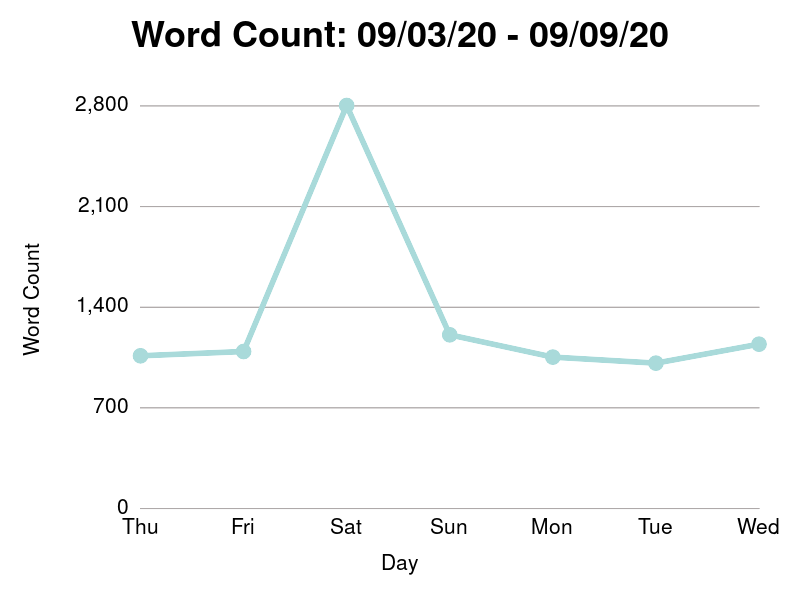
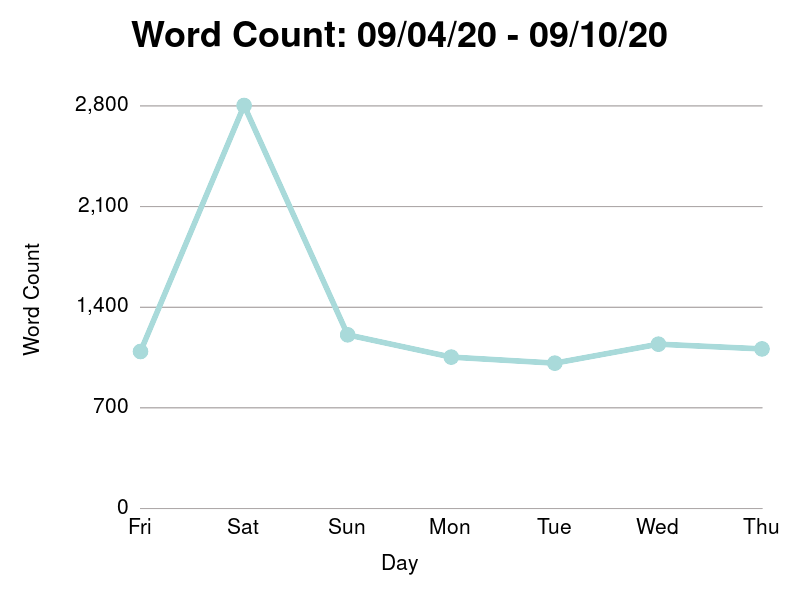
Post

diff --git a/entries/2020-09-10.md b/entries/2020-09-10.md
@@ -1,0 +1,147 @@
+---
+title: insecurity, soup, and piano
+---
+
+Dear Journal,
+
+Good morning, everyone.  Happy Thursday.  I hope you're hanging in
+there today.
+
+This week feels longer, doesn't it?  I thought I was in for an easy
+week, having this past Monday off and everything.  But I forgot about
+that weird phenomenon in that occurs in the busy seasons of life on
+short weeks like this one.  It's still a week's worth of work, but we
+just have fewer days to do it.  Turning the corner on this Thursday, I
+have the overwhelming sensation that I'm behind on something - that I
+need to catch up before the weekend so I can relax.
+
+_Sip_.  Yesterday was tough.  I had one of those days where all of my
+insecurities just jumped on my back and stayed with me throughout all
+of my dealings with people.  Little dark, nagging thoughts bouncing
+around in my brain.  Am I working hard enough?  Am I asking good
+questions?  Am I making this simpler for them, or just more confusing?
+Am I managing my time and staying on top of things?  Am I too silly in
+meetings, or am I too serious?
+
+And a chat tool like slack probably makes things worse.  You can't
+feel the warmth in a room when you crack a joke or say something
+crass.  You don't get the appreciative nods rewarding a valuable
+explanation.  And all of your words are right there on the screen in
+permanent black and white, like a big cold hunk of meat on an
+operating table waiting to be dissected.
+
+Insecurity is tough.  It would be nice if I could just fix it.  It
+would be great if all these thoughts flowed from a single false
+syllogism in my brain, and I could pluck it out.  I wish I could fix
+my insecurity by introducing little daily or weekly regiment into my
+life, like cleaning my coffee machine or doing push-ups at night.  It
+certainly feels better to write about it.  Thanks for the therapy
+session, reader.  And now I've spent so much time on the first topic
+in my notes, I'm out of coffee.
+
+_Sip_.  That's better.  Throughout the day yesterday, it seemed like
+Ziggy and I were kindred spirits, each dealing with our own negative
+thoughts.  Ollie was at _de kantoor van de dierenarts_ (or
+"Veterenarian's office") all day yesterday getting his teeth cleaned.
+Without her brother, Ziggy moped and wandered around the house like
+a... Ah, I can't really say _lost puppy_, can I?  She _was_ a lost
+puppy.
+
+For most of the morning, Ziggy remained curled up at the corner of the
+bed, casting her big droopy eyes at the back of my head while I
+worked.  Later in the morning, I felt a familiar sharp jab from a tiny
+finger.
+
+"DADA, guess what I have," said Rodney.  He had a small bundle of
+papers jutting out from behind his back.  I slipped my headphones off
+my head and turned to focus on him.
+
+"What.  Show me," I replied, smiling.
+
+Rodney unfurled his papers.  An orderly phalanx of uppercase _B_'s and
+lowercase _b_'s made with crayon.  He held them out in front of me,
+awaiting praise.
+
+"Dude, you _made_ these?  This is awesome," I said.
+
+"And we played with a BALLOON," said Rodney.
+
+"And do you know why we played with a balloon?" called up Marissa from
+the living room.
+
+"Because it's a BALLOON," replied Rodney, without thinking.
+
+Marissa replied quietly.  "No, dude.  It starts with _B_."
+
+Rodney's little traveling letters road show has become the highlight
+of my mornings.  I've started to collect his letters on a stack beside
+my desk.  "Dude, you're just _killin'_ it with these letters," I
+encouraged.
+
+The work day proceeded.  There was a code bug blocking my task, so I
+switched gears to see if I could fix it.  I latched on to the problem,
+and focused on hit so hard that heading downstairs for lunch, I felt
+like I was stumbling out of a time machine.
+
+Things mellowed out in the afternoon.  I got my notes in order, caught
+up on emails, and before I knew it, it was time to shut the laptop and
+start cooking.
+
+Thank God for cold weather, and thank God for soup.  Over the summer,
+I had forgotten the simple joy of making a comforting pot of soup.  I
+love how soup smells when you start sweating the vegetables in the
+pot.  I love how you can hang out and chat while it simmers.  I love
+how imprecise and flexible and forgiving it is.  Yesterday I made a
+batch of roasted butternut squash soup.  I thoroughly enjoyed getting
+to use the stick blender again.
+
+After dinner, Rodney and I set the electric piano up at the table for
+his very first "school-at-home" music class.
+
+"Dada, why we doing this?" asked Rodney.
+
+"This is school," I said.
+
+"No," said Rodney correcting me.  "I had school with Momma.  I made a
+_B_."
+
+"I remember, dude.  The _b_'s were awesome.  But you have school with
+Momma and with Dada too.  We're learning piano."
+
+Rodney and I tinkered with the piano for the duration of our twenty
+minute lesson.  Some of my ideas worked, and some of them didn't.  He
+seemed to like clapping to a metronome, but my little game of "sing
+the note you hear" was a huge bust.
+
+"I think he keeps losing the keys," said Marissa.  "Maybe you could
+put some tape over them?"
+
+"Oh, that's a good idea, Momma," I said.  "OK dude, I'm going to put
+three pieces of tape over these three keys.  These are your keys."
+
+"Um, let's do the white ones," said Rodney.
+
+I laughed.  "No, we're going to do the black ones - I'm running the
+show, dude."
+
+Taking turns, we played a little melody on his three black keys.  "We
+just need one finger now, like how Blippi pets a sea urchin," I
+explained.
+
+Before heading to bed, Marissa and I exchanged notes.
+
+"I like how you were just trying things to see what stuck," said
+Marissa.
+
+"Yeah, my plan was to just kind of feel it out today and see what he
+had the focus for," I replied.
+
+"So what I've noticed that seems to work is making him feel like we're
+working on it together," said Marissa.  "He has a hard time focusing
+when he feels like you're just telling him what to do."
+
+"Very true," I laughed.  "I think you're onto something.  Whatever
+you're doing is working, because he _really_ likes the letters.  Maybe
+we'll try to figure out how to play a little duet together."
+
+Thanks for stopping by today.  I hope you have a wonderful day today.
